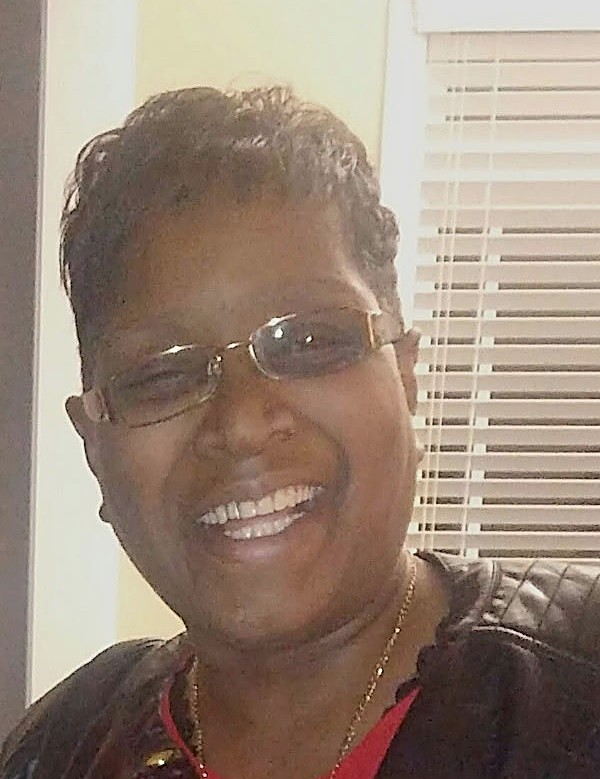
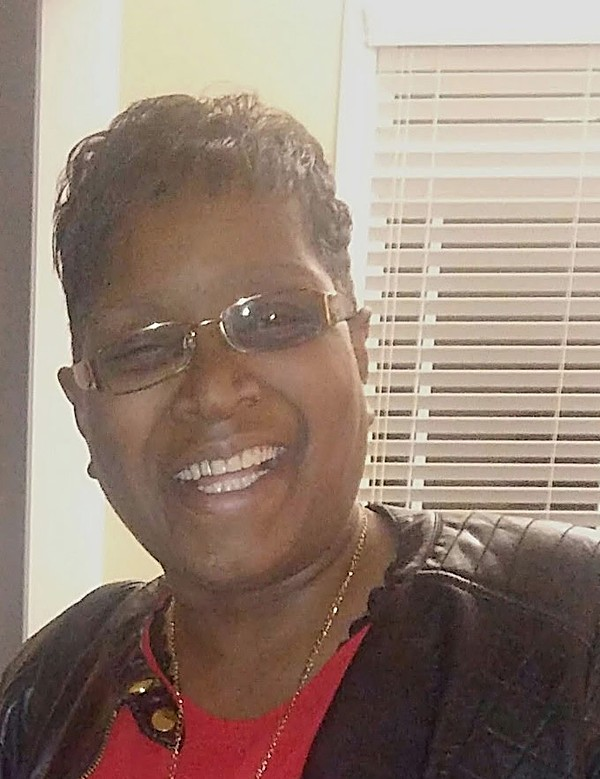
Update the In & Out website

diff --git a/index.html b/index.html
@@ -282,8 +282,10 @@
   @keyframes hbeat { 0%, 100% { transform: scale(1); } 14% { transform: scale(1.16); } 28% { transform: scale(1); } 42% { transform: scale(1.1); } 60% { transform: scale(1); } }
   @media (max-width: 900px) { .bf:not(.heart):nth-child(n+9) { display: none; } .bf:nth-child(n+9).heart { display: block; } .bf.heart:nth-child(n+17) { display: none; } }
   /* tiara on her photo (DroGo 2026-11-03): neon pencil lines that draw in, jewels twinkle */
-  .tribute .tphoto { position: relative; padding-top: 34px; }
-  .tribute .tiara { position: absolute; left: 50%; top: -14px; width: 150px; transform: translateX(-50%) rotate(-5deg); z-index: 2; color: #e0aaff; overflow: visible;
+  .tribute .tphoto { position: relative; }
+  .tribute .tpic { position: relative; }
+  /* sits ON her head: --tx/--ty = top of her hair in the photo (% of the picture), --tr = head tilt */
+  .tribute .tiara { position: absolute; left: var(--tx, 33.5%); top: var(--ty, 19.5%); width: 46%; transform: translate(-50%, -88%) rotate(var(--tr, -10deg)); z-index: 2; color: #e0aaff; overflow: visible;
     filter: drop-shadow(0 0 3px #e0aaff) drop-shadow(0 0 10px #b57edc) drop-shadow(0 0 18px #9b5de5); stroke-dasharray: 1; stroke-dashoffset: 1; }
   .tribute.drawn .tiara { animation: bfDraw 2.6s ease-out .4s forwards; }
   .tribute .tiara .gems { opacity: 0; }
@@ -291,7 +293,7 @@
   .tribute .tiara .gems circle:nth-child(odd) { animation-delay: inherit; }
   @keyframes gemIn { to { opacity: 1; } }
   @keyframes twinkle { 0%, 100% { opacity: 1; } 50% { opacity: .45; } }
-  @media (max-width: 900px) { .tribute .tiara { width: 120px; top: -8px; } .tribute .tphoto { padding-top: 26px; max-width: 280px; margin: 0 auto; } }
+  @media (max-width: 900px) { .tribute .tphoto { max-width: 280px; margin: 0 auto; } }
   @media (prefers-reduced-motion: reduce) { .tribute .tiara { stroke-dashoffset: 0; } .tribute .tiara .gems { opacity: 1; } }
   /* Gallery background video, dark layer on top so the photos stand out */
   .galbg { position: relative; overflow: hidden; }
@@ -532,6 +534,7 @@
   </div>
   <div class="wrap">
     <div class="tphoto">
+      <div class="tframe" data-a="zoom"><div class="tpic"><img src="brand/tribute-diane.jpg" alt="Mrs. Diane Richardson" loading="lazy">
       <svg class="tiara" viewBox="0 0 120 64" aria-hidden="true"><g fill="none" stroke="currentColor" stroke-linecap="round" stroke-linejoin="round" filter="url(#pencil)">
         <path pathLength="1" stroke-width="2.4" d="M10 54 C 40 61, 80 61, 110 54"/>
         <path pathLength="1" stroke-width="1.8" d="M14 47 C 42 53, 78 53, 106 47"/>
@@ -542,7 +545,7 @@
         <circle cx="60" cy="7" r="3.6"/><circle cx="36" cy="21" r="2.7"/><circle cx="84" cy="21" r="2.7"/><circle cx="18" cy="32" r="2.1"/><circle cx="102" cy="32" r="2.1"/>
         <circle cx="30" cy="51" r="1.6"/><circle cx="45" cy="53.5" r="1.6"/><circle cx="60" cy="54.5" r="2"/><circle cx="75" cy="53.5" r="1.6"/><circle cx="90" cy="51" r="1.6"/>
       </g></svg>
-      <div class="tframe" data-a="zoom"><img src="brand/tribute-diane.jpg" alt="Mrs. Diane Richardson" loading="lazy"></div>
+      </div></div>
     </div>
     <div data-a="up" style="--d:.15s">
       <div class="eyebrow ft pur">In loving memory</div>
